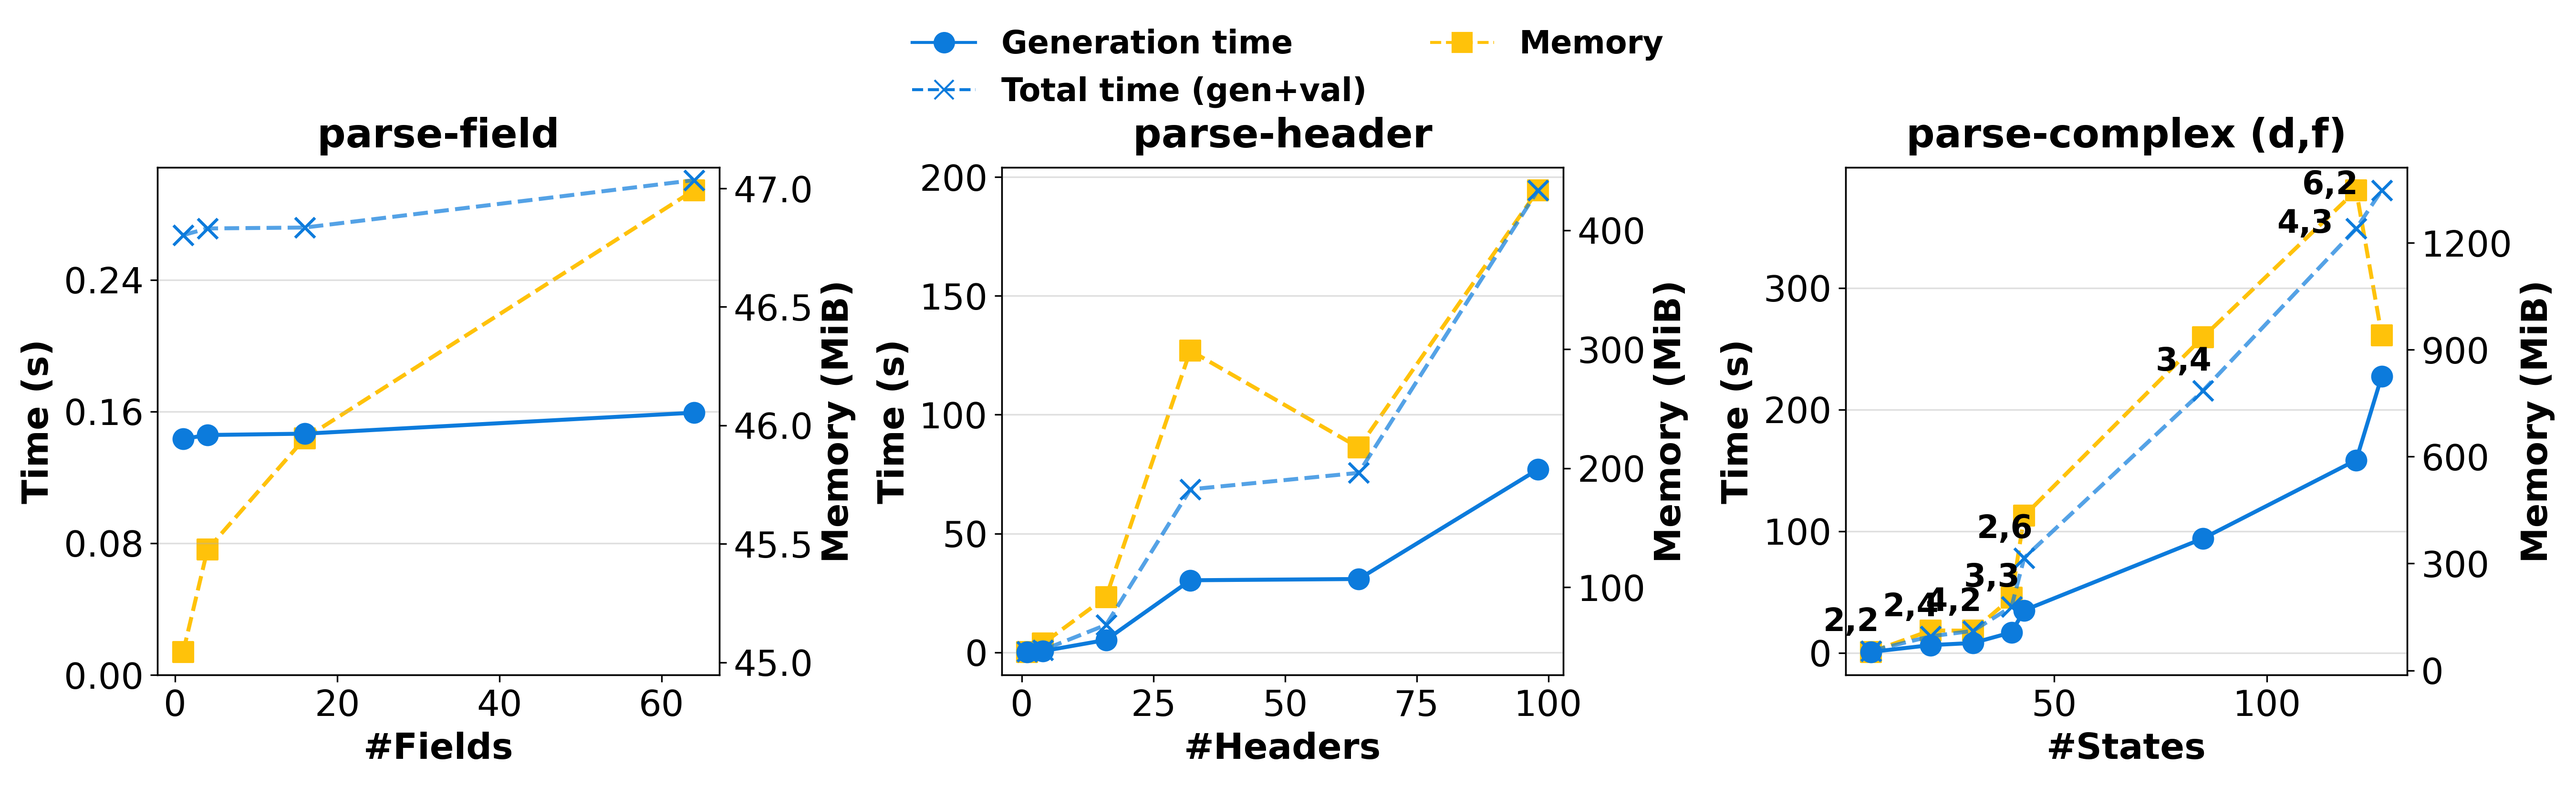
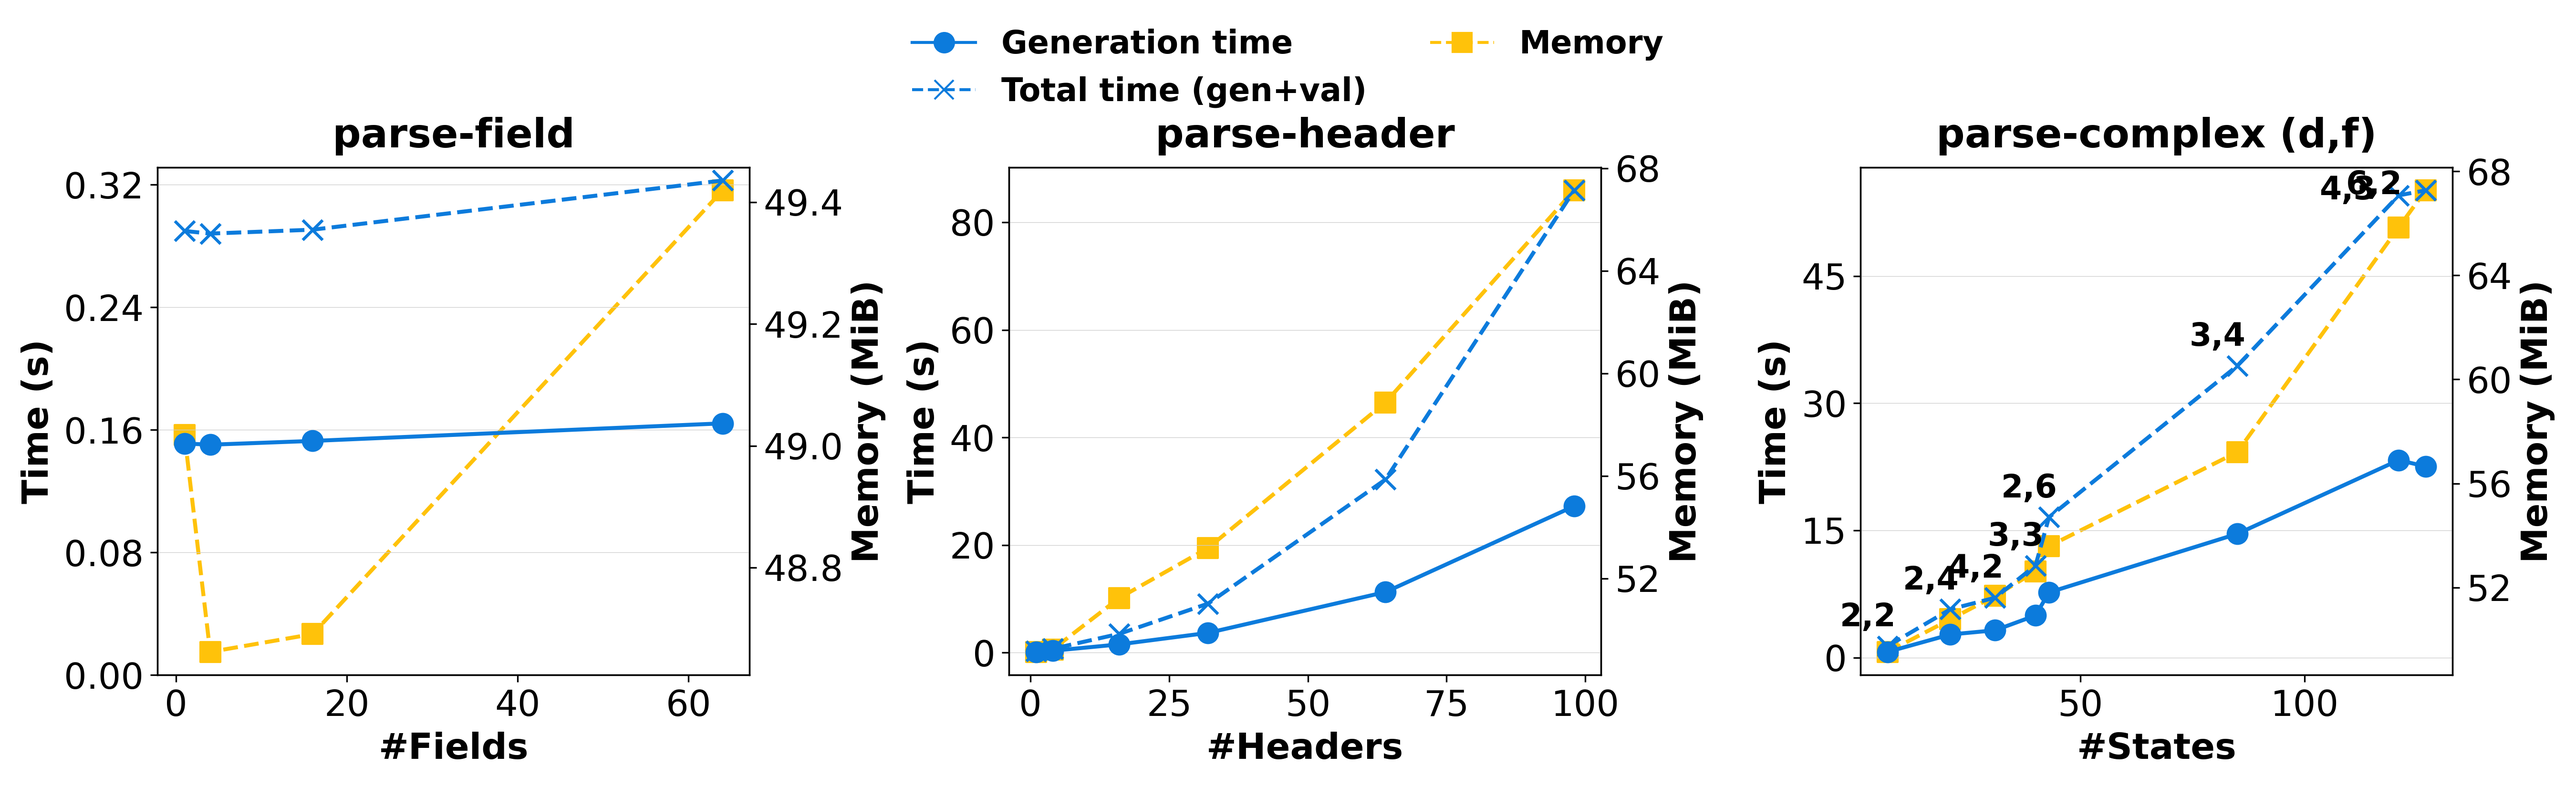
Final update for AE

diff --git a/artifact/README.md b/artifact/README.md
@@ -56,7 +56,7 @@ Requirements:
 * RAM: 16 GiB
 * CPU cores: 4
 * Time (smoke test): 15 minutes
-* Time (full review): 7-8 hours (depending on hardware)
+* Time (full review): 2 hours
 
 external connectivity: NO
 
@@ -95,32 +95,35 @@ experimental evaluation.
 -------------------------------------------------------------------------------
 
 It should be noted that, following the rebuttal phase, we were explicitly
-requested to extend Octopus with certificate validation. This addition required 
-modest changes to the core algorithm and implementation, which in turn affect 
-performance characteristics such as runtime and memory usage. As a result, the 
-reported averages differ from those in the accepted paper, although the 
-underlying methodology remains unchanged. We have submitted the original version 
-of the accepted paper to the AE, as requested, but will use the updated results 
+requested to extend Octopus with certificate validation. This addition required
+modest changes to the core algorithm and implementation, which in turn affect
+performance characteristics such as runtime and memory usage. As a result, the
+reported averages differ from those in the accepted paper, although the
+underlying methodology remains unchanged. We have submitted the original version
+of the accepted paper to the AE, as requested, but will use the updated results
 in the camera-ready version.
 
-The updated results are available under `/our_results` and cover all three 
+The updated results are available under `/our_results` and cover all three
 evaluation components:
+
 - (1) updated Octopus averages for Table 1,
 - (2) an updated version of Figure 3, and
 - (3) updated summary statistics for the public code experiment.
 
-For (1), we now report generation and validation times separately, whose sum is 
-comparable to the previously reported total execution time. For (2), we plot the 
-certificate generation time as well as the combined generation and validation 
+For (1), we now report generation and validation times separately, whose sum is
+comparable to the previously reported total execution time. For (2), we plot the
+certificate generation time as well as the combined generation and validation
 time.
 
-To ensure a fair comparison, we re-executed all experiments on the same
-hardware configuration as used in the paper. We also removed the previously used 
-cold start for each run. In retrospect, this provided only marginal benefit for 
-very short runs while significantly increasing total experimental runtime.
-Finally, we switched from using the cvc5 SMT solver to z3. Both were found to be 
-near equally performant (+/- 10%), as we also stated in our rebuttal, however, 
-we found that cvc5 produces a race condition within PySMT, our SMT interface.
+We re-executed all experiments on the same hardware configuration as reported in
+the paper to ensure comparability. The previously included cold-start phase was
+removed, as it yielded only marginal improvements for very short runs while
+substantially increasing overall runtime. We also reduced memory usage by
+redesigning the internal handling of formulas, eliminating the need for
+expensive deep copies. Finally, we replaced the previously used cvc5 SMT solver
+with Z3. While both solvers exhibited comparable performance (within
+approximately +/- 10%, as reported during the rebuttal phase), cvc5 triggered a
+race condition in PySMT, our SMT interface, which motivated the switch.
 
 Although specific measurements differ from those reported in the paper, the
 overall trends and conclusions remain unchanged.
@@ -156,14 +159,14 @@ The following commands will print out progress as they execute the benchmarks.
 While concrete output values may differ, the overall trends (e.g., ratios)
 should stay the same.
 
-(1) To obtain the results in Table 1, run the following command: [~6 hours]
+(1) To obtain the results in Table 1, run the following command: [~1.5 hours]
 
     python3 tests/runner.py --suite leapfrog
 
 The experiment run averages will be printed out in the CLI. These should be
 consistent with those in `our_results/1_Table_1_Octopus_averages.txt`.
 
-(2) To obtain the results for the synthetic benchmarks experiment, run: [~2 hours]
+(2) To obtain the results for the synthetic benchmarks experiment, run: [~20 minutes]
 
     python3 tests/runner.py --suite whippersnapper
     mv whippersnapper_plot.png /output/whippersnapper_plot.png
@@ -180,7 +183,7 @@ The CLI output should confirm that the three pairs of parsers are indeed
 equivalent, as claimed in the paper (Section 5, page 9, final paragraph of the
 'Synthetic benchmarks' subsection).
 
-(3) To obtain the results for the public code experiment, run the following command: [~20 minutes]
+(3) To obtain the results for the public code experiment, run the following command: [~5 minutes]
 
     python3 tests/public-code-exp.py --directory tests/p4-programs-survey
 
